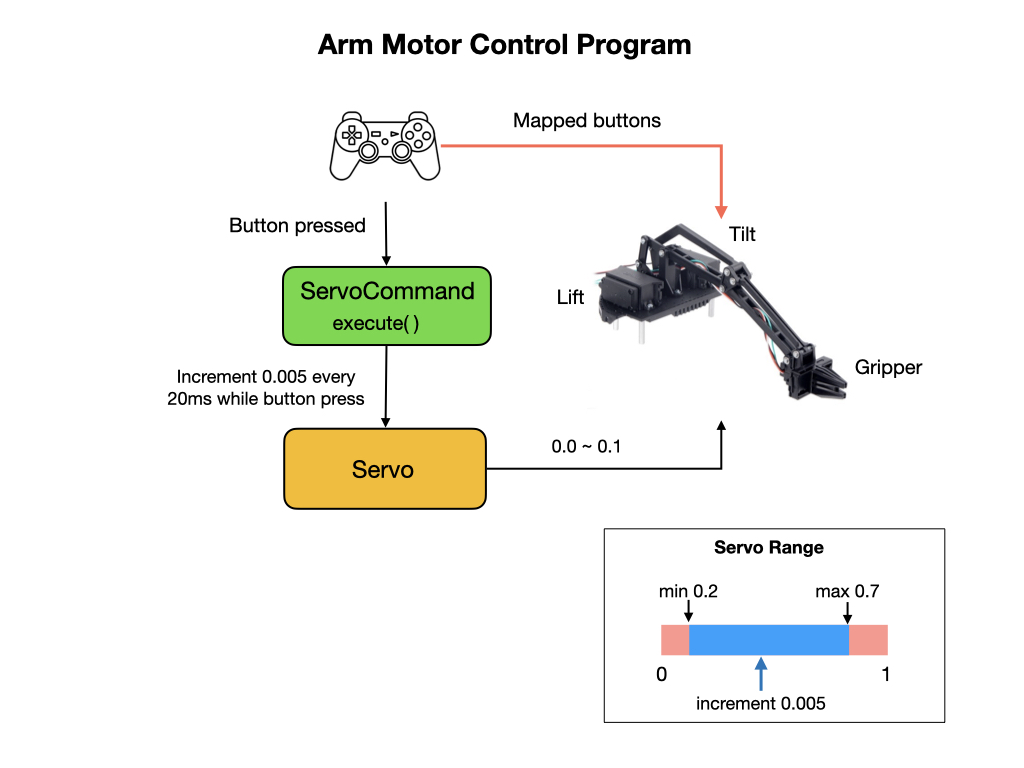
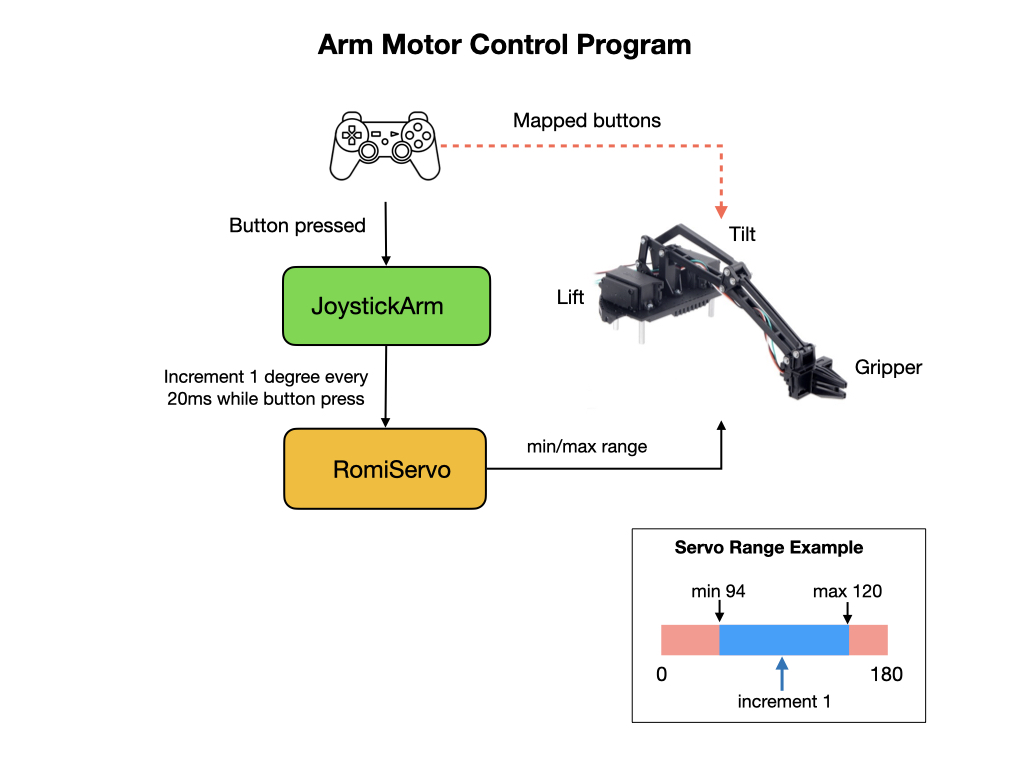
updates

diff --git a/docs/Romi/Control/romiArm.md b/docs/Romi/Control/romiArm.md
@@ -1,17 +1,41 @@
 # Romi Robot Arm
-In this module we'll be creating code to control the [Robot Arm kit for Romi](https://www.pololu.com/product/3550) from Pololu. This program will be called [BasicArm](https://github.com/mjwhite8119/romi-examples/tree/main/BasicArm) which will include the following updates to the **RomiReference** project.
+In this module we'll be creating code to control the [Robot Arm kit for Romi](https://www.pololu.com/product/3550) from Pololu. This project will be called [BasicArm](https://github.com/mjwhite8119/romi-examples/tree/main/BasicArm) which will include the following updates to the **RomiReference** project.
 
-![BasicArm](../../images/Romi/Romi.029.jpeg)
+![BasicArm](../../images/Romi/Romi.031.jpeg)
 
-Before reading this section please review the [SimpleArm documentation](https://github.com/bb-frc-workshops/romi-examples/tree/main/simpleArm) on the BB FRC Workshops site.
+Before reading this section please review the [SimpleArm documentation](https://github.com/bb-frc-workshops/romi-examples/tree/main/simpleArm) on the BB FRC Workshops site.  This will be our starting point but we'll use the [RomiServo](romiServos.md) class for our project.
 
 ## Controlling the Robot Arm
-This is how the software stack works together to operate the robot arm.
+This is a diagram of the end-to-end software stack required to operate the robot arm.  As with all of our projects communication with the Romi will take place via the Simulator that connects to the NodeJS application running on the Raspberry Pi. This in turn sends messages to the microcontroller that is responsible for directly controlling the arm's servos using PWM.
+
 ![Servo Control](../../images/Romi/Romi.006.jpeg)
 
-A button is attached to each of the three arm components Lift, Tilt, and Gripper.  Every time a button is pressed the related arm component is moved.  This is done incrementally.  There are min and max limits to the range of motion of the arm.  The range of the servo is 0 to 180 degrees but that is too large a range for the arm.
+In order to control the arm within our java project, we'll create a subsystem called *Arm* that brings together three servos that make up the arm.  The servos will control the Gripper, Lift, and Tilt components of the arm using methods of the *Arm* class.  Later we can assign a joystick or Simulator button  to each of the three arm components via a command and every time the button is pressed the related arm component is moved.  This is done incrementally in the [RomiServo](romiServos.md) class.  
 
-The `Constants` file needs to be updated to include `Joystick` and `Arm` values.
+    private final RomiServo m_gripper = new RomiServo(ArmConstants.GRIPPER_PORT);
+    private final RomiServo m_tilt = new RomiServo(ArmConstants.TILT_PORT);
+    private final RomiServo m_lift = new RomiServo(ArmConstants.LIFT_PORT);
+
+Method used to increment the tilt component.
+
+    public void tilt(double delta) {
+      m_tilt.incrementServo(delta);
+    }
+
+![BasicArm](../../images/Romi/Romi.062.jpeg)
+
+There are minimum and maximum limits to the range of motion of the arm.  The range of the servo is 0 to 180 degrees but that is too large a range for the arm. We've already setup a method in *RomiServo* to restrict the servo range so we can use that to setup the ranges for our arm components.  The min and max values for your Romi Arm may be slightly different.  We can also set a default angle for the arm components.
+
+    public Arm() {
+      // Set the min/max range for each component
+      m_gripper.setAngleRange(ArmConstants.GRIPPER_MIN, ArmConstants.GRIPPER_MAX);
+      m_tilt.setAngleRange(ArmConstants.TILT_MIN, ArmConstants.TILT_MAX);
+      m_lift.setAngleRange(ArmConstants.LIFT_MIN, ArmConstants.LIFT_MAX);
+
+      // Set the default angle position
+      m_tilt.setDefaultAngle(ArmConstants.TILT_MIN);
+      m_lift.setDefaultAngle(ArmConstants.LIFT_MIN);
+    }
 
 ![Arm Motor Control](../../images/Romi/Romi.005.jpeg)
 
@@ -36,22 +60,22 @@ Follow this startup procedure.
 
 Currently, the Romi will remain in *Arm Mode* until it is restarted.
 
-## Adding an Arm Position Command
-The JoystickArmCommand incrementally moves the robot arm components as you press buttons on the joystick.  It would be useful to have a command that move the arm to the fully up or down position with a single button press. 
-
-Create a new command called **ArmPosition**.  In the VSCode file menu right click on the **commands** folder and select "Create a new class/command".  Enter the name **ArmPosition** in the box.  This will give you a template for creating your new command, which will include the class constructor and the **initialize(), execute(), end(),** and **isFinished()** methods.  
+## The JoystickArm Command
+The JoystickArm command incrementally moves the robot arm components as you press buttons on the joystick...   
 
 Before filling out these methods with code let's think about what subsystems and components we'll need to create this command.  We'll certainly need the Arm subsystem.  The Arm will move in response to a button pressed on the Joystick so we'll also need to get a reference to that.
 
-Import the Arm and Joystick command at the top of the file and create a private variable to each of them inside of the class.  
+Import the *Arm* class at the top of the file and create a private variable it.  
 
-Example...
+    public final Arm m_arm = new Arm();
 
 Pass the Arm and Joysick into the constructor and set the Arm as a requirement.  Also assign the private arm and joystick variables to the parameters that you just passed in.
 
-Example...
+    m_arm.setDefaultCommand( new JoystickArm(m_arm, m_joystickIO));
 
-Now let's figure out what we're going to do with these. 
+## Positioning the Arm
+It would be useful to have a command that move the arm to the fully up or down position with a single button press.
+This section documents positioning the arm in the fully up and down position... 
 
 ## Testing the Arm Command
 We can test the Arm command either by using the joystick or from Shuffleboard.  We'll setup our program to use both methods.  

diff --git a/docs/Romi/Vision/romiPhotonVision.md b/docs/Romi/Vision/romiPhotonVision.md
@@ -1,0 +1,21 @@
+# Using PhotoVision with Romi
+
+[Install PhotonVision on the Romi](https://github.com/PhotonVision/photonvision-docs/blob/ec29ff49e4a03f8d06e00818885efa774126c24c/source/docs/getting-started/installation/romi.rst).
+
+Most of the documentation is there but here's a few things to check on.
+
+- If Romi is setup as an access point you must plug in an ethernet cable before running the install.
+- Set the Romi to **Writable** mode before installing.
+- After editing the CameraServer `runCamera` script remember to put it back into **Read-Only** mode before rebooting.
+- The install on the Romi sets up the `photonvision.service` file in `/lib/systemd/system` to start PhotonVision on reboot.  You can also start it manually: `systemctl stop/start photonvision.service`
+- The Raspberry Pi must be in **Writable** mode to create a new pipeline.  I believe it can go back into **Read-Only** mode after the pipeline is created and you are executing your java program.
+- While creating the pipeline you must adjust the filtering controls until you've aquired one or more targets, otherwise you won't get anything in the Network Tables.
+
+- *Pipeline Type* must be **Reflective** mode otherwise there's no data.
+
+
+## References
+
+- PhotonVision - [Install on the Romi](https://github.com/PhotonVision/photonvision-docs/blob/ec29ff49e4a03f8d06e00818885efa774126c24c/source/docs/getting-started/installation/romi.rst)
+
+- PhotonVision [Documentation](https://docs.photonvision.org/_/downloads/en/latest/pdf/)

diff --git a/docs/Romi/Control/romiTrajectory.md b/docs/Romi/Control/romiTrajectory.md
@@ -70,13 +70,13 @@ The chassis speeds become the next setpoint for the PID controllers that get the
 
 - Github - [Romi Trajectory Follower](https://github.com/bb-frc-workshops/romi-examples/tree/main/romi-trajectory-ramsete)
 
-- [Controls Engineering in the FIRST Robotics Competition](https://file.tavsys.net/control/controls-engineering-in-frc.pdf)
+- Tyler Veness - [Controls Engineering in the FIRST Robotics Competition](https://file.tavsys.net/control/controls-engineering-in-frc.pdf)
 
 - QUT Robot Academy [Paths & Trajectories](https://robotacademy.net.au/masterclass/paths-and-trajectories/)
 
 - Code Example - [Trajectory Following - Ramsete](https://github.com/mjwhite8119/romi-examples/tree/main/romi-trajectory-ramsete)
 
-
+- Declan Freeman-Gleason - [WPILib Trajectories Presentation](https://pietroglyph.github.io/trajectory-presentation/#/)
 <!-- <h3><span style="float:left">
 <a href="romiPID">Previous</a></span>
 <span style="float:right">

diff --git a/docs/Romi/SC/romiExample.md b/docs/Romi/SC/romiExample.md
@@ -18,9 +18,11 @@ Next, place the robot in Teleoperated mode and drive it around using the joystic
 ![Simulator](../../images/Romi/Romi.039.jpeg)
 
 ## References
+- Spectrum3847 - [Romi WPILib Example Project Walkthrough](https://www.youtube.com/watch?v=j5g4nHV3FaY&ab_channel=Spectrum3847)
+
+<!-- - Cerbotics4400 - [Introduction to FRC programming](https://www.youtube.com/watch?v=ImkxFrBirwY&list=TLPQMjgxMTIwMjF2Q19t44SxpA&index=3&ab_channel=Cerbotics4400) -->
+
 - FRC Documentation - [Robot Simulator](https://docs.wpilib.org/en/stable/docs/software/wpilib-tools/robot-simulation/introduction.html)
-
-
 
 <!-- <h3><span style="float:left">
 <a href="romiDev">Previous</a></span>

diff --git a/docs/Concepts/RobotSystem/sensors.md b/docs/Concepts/RobotSystem/sensors.md
@@ -39,7 +39,7 @@ There are infinite usages of LDS, and SLAM (Simultaneous Localization And Mappin
 
 - Alonzo Kelly [Mobile Robotics](https://www.cambridge.org/core/books/mobile-robotics/5BF238489F9BC337C0736432C87B3091) Chapter 6.2
 
-<h3><span style="float:left">
+<!-- <h3><span style="float:left">
 <a href="intro">Previous</a></span>
 <span style="float:right">
-<a href="actuators">Next</a></span></h3>
+<a href="actuators">Next</a></span></h3> -->

diff --git a/docs/Concepts/RobotSystem/intro.md b/docs/Concepts/RobotSystem/intro.md
@@ -87,7 +87,7 @@ The programming team is primarily tasked with controlling the robot.  Robot cont
 ## References 
 - QUT Robotics Academy [Introduction to Robotics](https://robotacademy.net.au/masterclass/introduction-to-robotics/)
 
-<h3><span style="float:left">
+<!-- <h3><span style="float:left">
 <a href="index">Home</a></span>
 <span style="float:right">
-<a href="../geometry">Next</a></span></h3>
+<a href="../geometry">Next</a></span></h3> -->

diff --git a/docs/Concepts/RobotSystem/actuators.md b/docs/Concepts/RobotSystem/actuators.md
@@ -6,7 +6,7 @@
 
 - FRC Documentation - [Pneumatics](https://docs.wpilib.org/en/latest/docs/software/hardware-apis/pneumatics/pneumatics.html)
 
-<h3><span style="float:left">
+<!-- <h3><span style="float:left">
 <a href="sensors">Previous</a></span>
 <span style="float:right">
-<a href="networking">Next</a></span></h3>
+<a href="networking">Next</a></span></h3> -->

diff --git a/docs/Concepts/RobotSystem/control.md b/docs/Concepts/RobotSystem/control.md
@@ -26,5 +26,5 @@ Explain a real time operating system...
 
 ![RTOS](../../images/FRCConcepts/FRCConcepts.015.jpeg)
 
-<h3><span style="float:left">
-<a href="intro">Previous</a></span>
+<!-- <h3><span style="float:left">
+<a href="intro">Previous</a></span> -->
